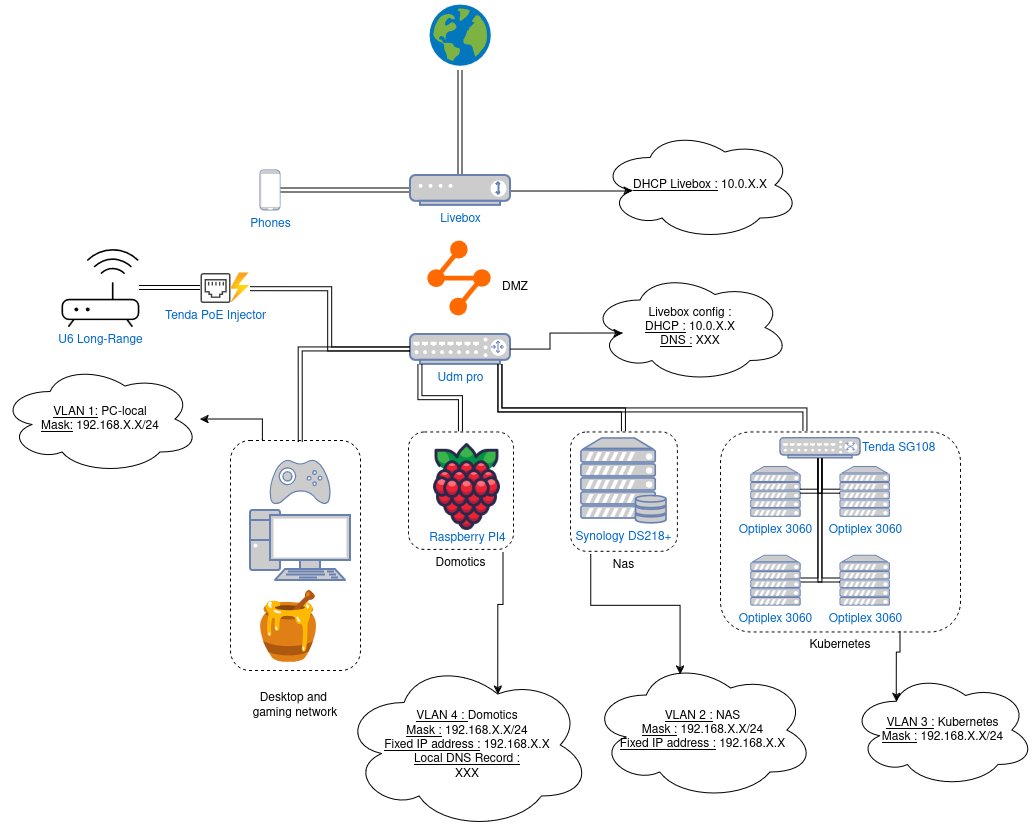
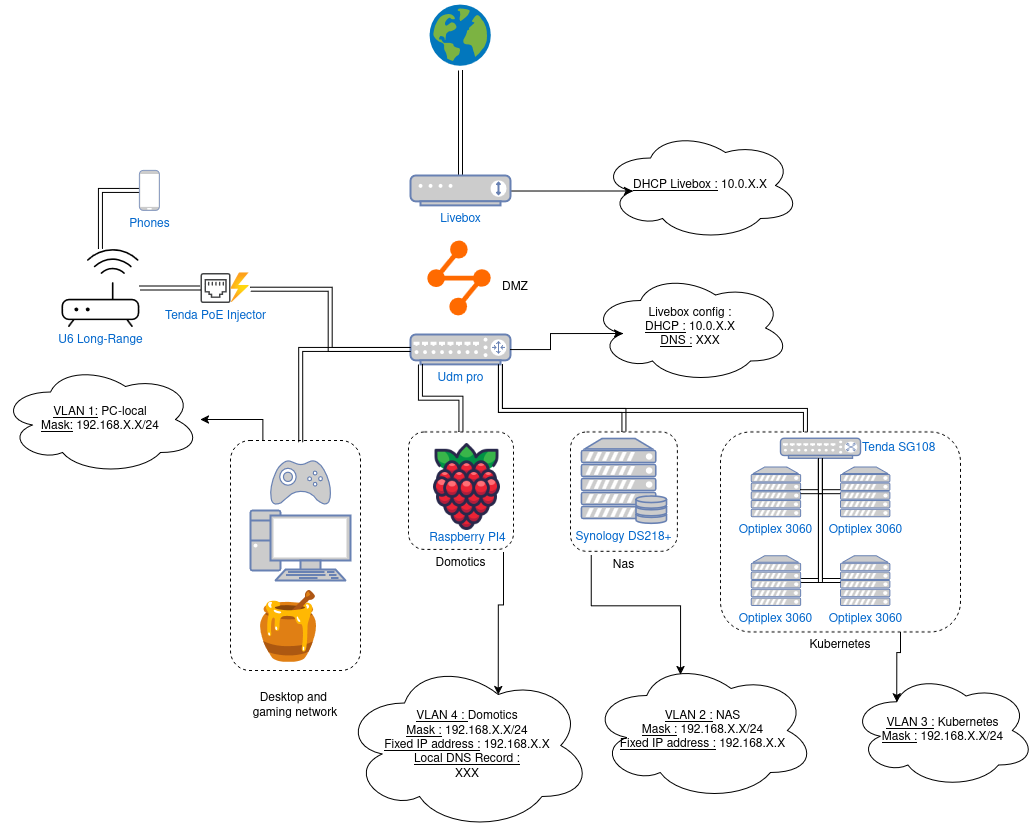
Change hardening resource path

diff --git a/README.md b/README.md
@@ -11,7 +11,7 @@ It's here to help new people and get some review about architecture or software 
 - Wifi : Ubiquiti U6 Long-Range
 - Raspberry pi 4
 - Ubiquiti U6-LR
-- x4 Dell optiplex 3060 i5 8500T 8go DDR4 2666mhz, m2 256go
+- x4 Dell optiplex 3060 i5 8500T 16go DDR4 2666mhz, m2 256go
 
 ## Architecture
 ![Alt text](images/Network_archi.drawio.png?raw=true "Network architecture")
@@ -55,7 +55,7 @@ Enter the ansible user password for the managed nodes.
 After this you need to add the private ssh key to authenticate to the nodes : `eval "$(ssh-agent -s)"` and add the key : `ssh-add <PATH_TO_PRIVATE_KEY>`.
 
 Now install rke2 and Rancher in all the machines
-`ansible-playbook -i inventory.yml rke2/install.yaml -K`
+`ansible-playbook -i inventory.yml rke2/install.yaml`
 
 Note : you can uninstall rke2 & Rancher via the `rke2/uninstall.yaml` playbook.
 
@@ -125,12 +125,8 @@ For multiple tools I need mariadb instance.
 - [ ] Patch broken redirection (/ to /auth) in keycloak
 - [ ] Harden cluster (rke2, keycloak FIPS, RBAC, PSA)
 - [ ] Check if Cilium if worth it to add
-- [ ] Use NAS as storage
 - [ ] Add HAproxy
-- [ ] Enhance documentation
 - [ ] Add webserver to host blog & auto deploy in medium + stackpills
-- [ ] Configure custom resources for mariadb
-- [ ] Use NAS to configure NFS & link to seafile with pv/pvc custom (not longhorn because of performance)
 
 
 ## Sources

diff --git a/ansible/cluster-apps/minecraft/README.md b/ansible/cluster-apps/minecraft/README.md
@@ -6,4 +6,4 @@ So the (documentation)[https://docker-minecraft-server.readthedocs.io/en/latest/
 
 To install it :
 - `helm repo add itzg https://itzg.github.io/minecraft-server-charts/`
-- `helm install --namespace minecraft --create-namespace --name minecraft -f values.yaml itzg/minecraft`
+- `helm install --namespace minecraft --create-namespace minecraft -f values.yaml itzg/minecraft`

diff --git a/ansible/cluster-apps/plex/README.md b/ansible/cluster-apps/plex/README.md
@@ -6,7 +6,7 @@ Before launching the playbook, configure the python virutal_env. Cf the global [
 * To install launch the playbook `ansible-playbook cluster-apps/plex/install.yml`
 * Then you can go to the url `https://plex.<$DOMAIN_NAME>`. 
 
-## Manuel install
+## Manual install
 First create the plex namespace and the pv/pvc for the NFS :
 - `kubectl create namespace plex`
 - `kubectl apply -f pv.yml`